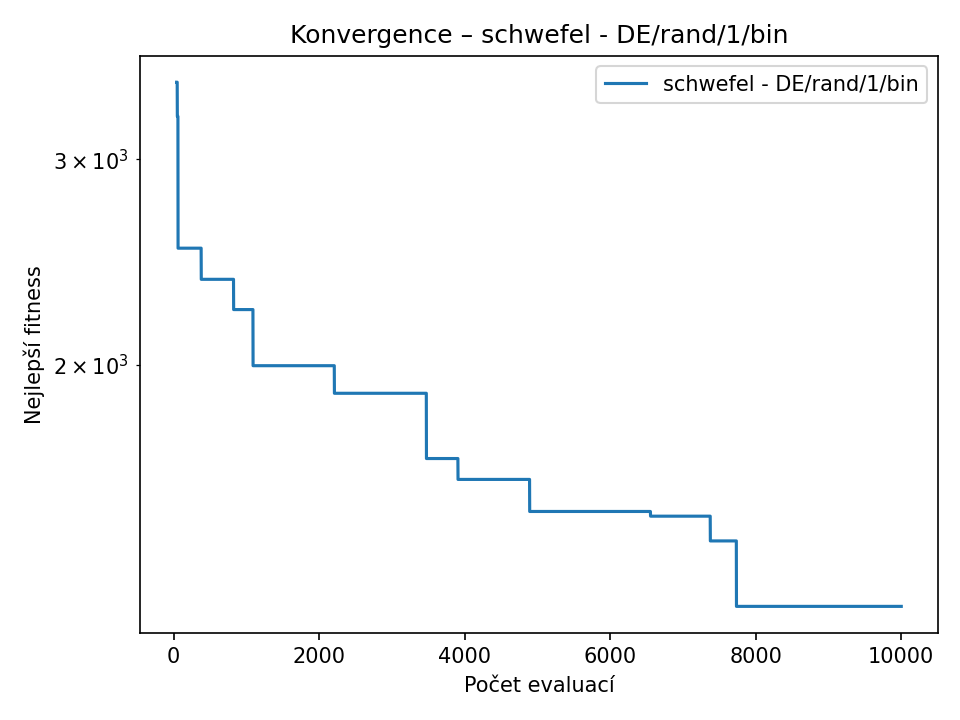
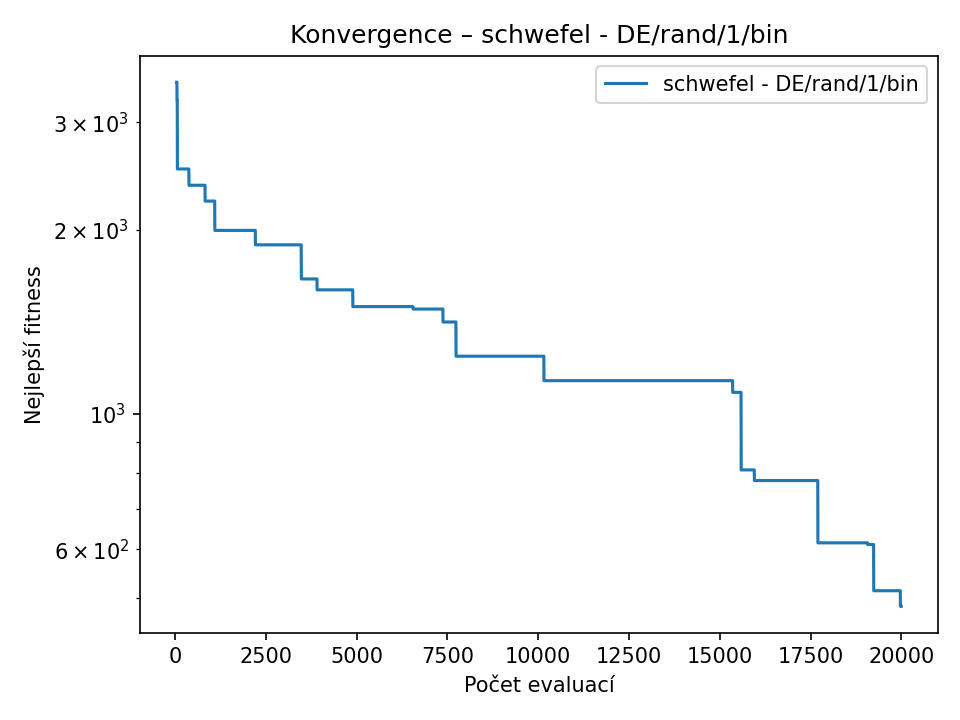
Refactor optimization function bounds handling and update maximum evaluations

diff --git a/diferencialni_evoluce/main.py b/diferencialni_evoluce/main.py
@@ -14,28 +14,28 @@ def rastrigin(x):
 def rosenbrock(x):
     return sum(100 * (x[1:] - x[:-1] ** 2) ** 2 + (1 - x[:-1]) ** 2)
 
+
 def schwefel(x):
     return 418.9829 * len(x) - np.sum(x * np.sin(np.sqrt(np.abs(x))))
 
 
+FUNCTION_BOUNDS = {
+    sphere: (-100, 100),
+    rastrigin: (-5.12, 5.12),
+    rosenbrock: (-2.048, 2.048),
+    schwefel: (-500, 500),
+}
+
+
 def get_bounds(func):
-    if func.__name__ == "sphere":
-        return -100, 100
-    elif func.__name__ == "rastrigin":
-        return -5.12, 5.12
-    elif func.__name__ == "rosenbrock":
-        return -2.048, 2.048
-    elif func.__name__ == "schwefel":
-        return -500, 500
-    else:
-        return -10, 10
+    return FUNCTION_BOUNDS.get(func, (-10, 10))
 
 
 if __name__ == "__main__":
     dim = 10
-    func_to_use = schwefel
+    func_to_use = sphere
     bounds = get_bounds(func_to_use)
-    max_evals = 10000
+    max_evals = 20000
     pop = 40
 
     # 1) DE/rand/1/bin
